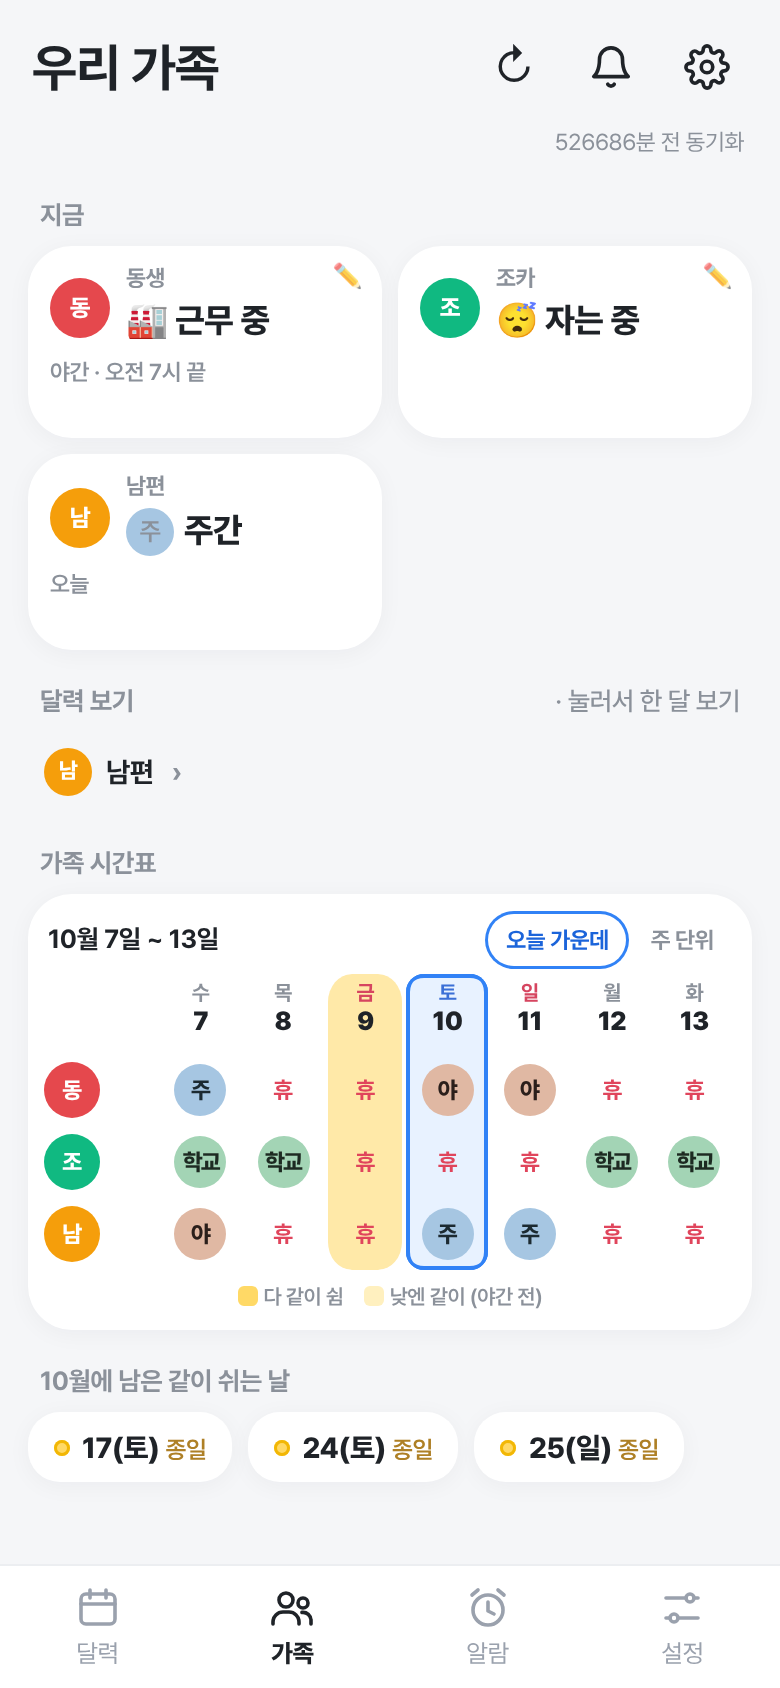
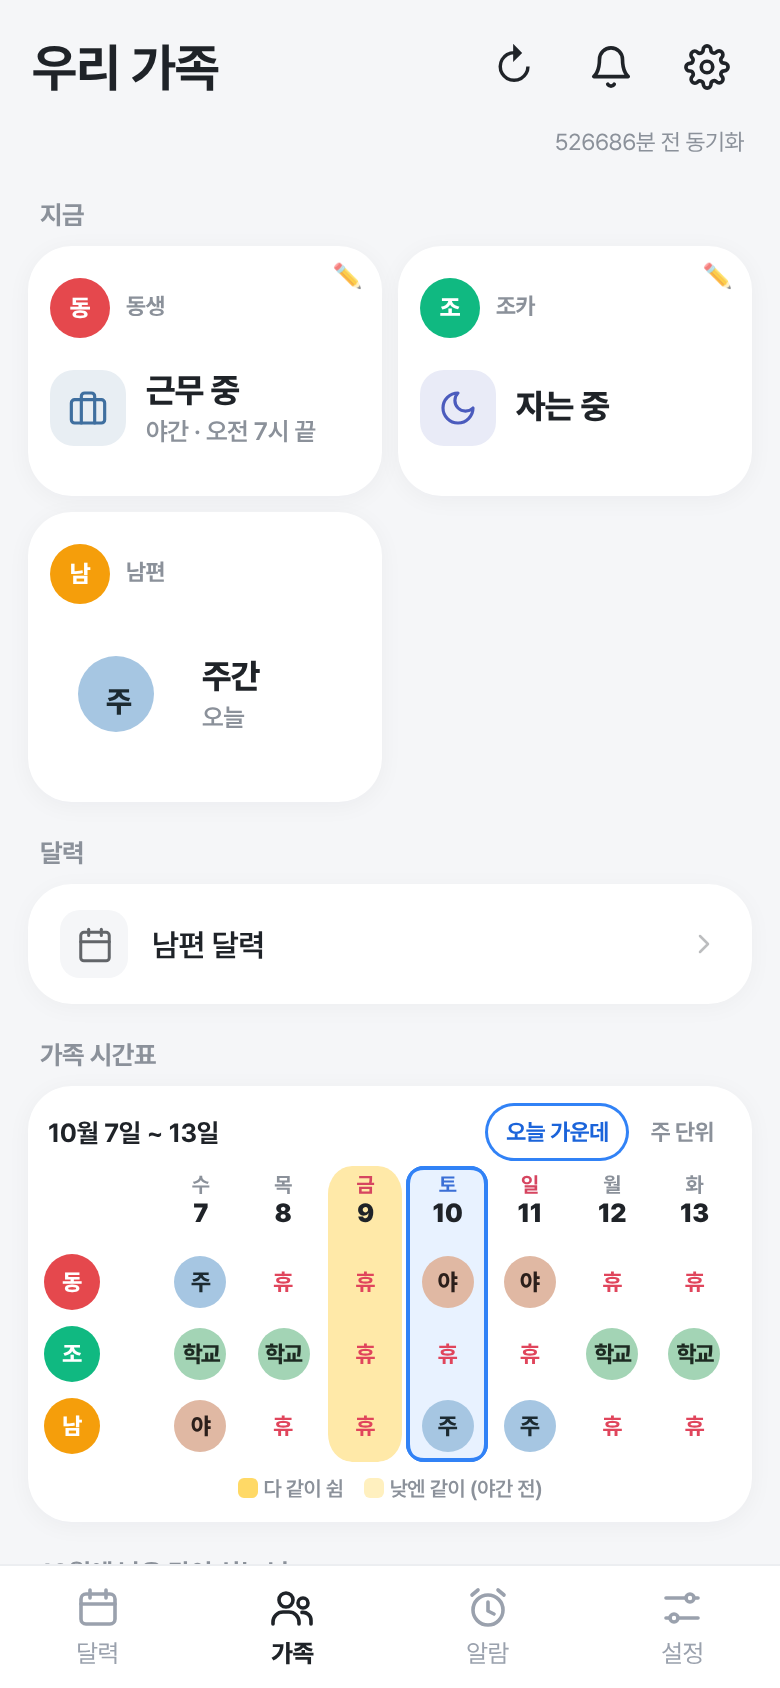
v0.169: 가족 탭 지금 카드 새 모양 · 달력 줄
- 이모지 대신 선 아이콘 칸 · 상태 크게 · 다음 일 한 줄
- 달력 보기 칩 → "남편 달력 ›" 카드 줄
- 시험 s83

Claude-Session: https://claude.ai/code/session_01JTBnEvptp151JygSjZNCTX

diff --git a/app/src/main/assets/index.html b/app/src/main/assets/index.html
@@ -1966,6 +1966,17 @@ html[data-theme="dark"] .tglow .g-hb{stroke:#fff;opacity:.07}
 .vrbody .vcm .vcmt{color:var(--muted)}
 .vrbody .vcmemo-bar{display:flex;gap:8px;margin-top:8px}.vrbody .vcmemo-bar input{flex:1;height:48px;border:0;border-radius:14px;background:var(--surface);padding:0 14px;font-size:15.5px;box-shadow:none}
 .vrbody .vcmemo-bar .send{flex:none;width:46px!important;height:46px!important;border-radius:13px!important;background:var(--fam)!important;color:#fff!important;display:grid;place-items:center}
+/* v0.169 가족 "지금" 카드 새 모양 · 달력 줄 (시안 design/viewfam) */
+.nc.fc2 .st2{display:flex;align-items:center;gap:10px;margin-top:10px}
+.nc.fc2 .sic{width:38px;height:38px;border-radius:12px;flex:none;display:grid;place-items:center;color:var(--c);background:color-mix(in srgb,var(--c) 12%,var(--bg))}
+.nc.fc2 .sic.sbd{border-radius:50%;font-weight:800;font-size:15px}
+.nc.fc2 .stt{min-width:0}.nc.fc2 .stt b{display:block;font-size:17px;font-weight:800;line-height:1.25;letter-spacing:-.3px;white-space:nowrap;overflow:hidden;text-overflow:ellipsis}
+.nc.fc2 .stt span{display:block;font-size:12.5px;font-weight:600;color:var(--muted);margin-top:1px;white-space:nowrap;overflow:hidden;text-overflow:ellipsis}
+.now.fams>.nc.fc2:only-child{grid-column:1/-1}.now.one>.nc.fc2:only-child .sic{width:44px;height:44px}.now.one>.nc.fc2:only-child .stt b{font-size:20px}
+.vcrows{background:var(--bg);border-radius:22px;margin:0 0 4px;box-shadow:0 2px 12px rgba(15,23,42,.035);overflow:hidden}
+.vcr{display:flex;align-items:center;gap:12px;width:100%;padding:13px 16px;text-align:left}.vcr+.vcr{border-top:1px solid var(--line)}
+.vcr .vci{width:34px;height:34px;border-radius:10px;background:var(--surface);display:grid;place-items:center;color:color-mix(in srgb,var(--fg) 70%,var(--bg))}
+.vcr b{flex:1;font-size:15.5px;font-weight:600}.vcr em{font-style:normal;color:color-mix(in srgb,var(--fg) 30%,var(--bg));display:flex}
 /* v0.148 빛이 도는 동안: 원래 테두리는 숨기고 빛을 따라 그려지는 선(g-draw)으로 · 끝나면 다시 테두리 */
 .cell.today.glowing::after{opacity:0}
 .tglow .g-draw{stroke-width:3px;opacity:1;stroke:var(--tdc,var(--today))}
@@ -5146,6 +5157,7 @@ const npRow=(icon,name,right,o={})=>`<div class="prow${o.tap?" tap":""}${o.cls?"
 Object.assign(NPI,{   // v0.158 남은 화면
   'briefcase':'<rect x="2" y="7" width="20" height="14" rx="2"/><path d="M16 21V5a2 2 0 0 0-2-2h-4a2 2 0 0 0-2 2v16"/>',
   'book-open':'<path d="M2 4h6a4 4 0 0 1 4 4v13a3 3 0 0 0-3-3H2zM22 4h-6a4 4 0 0 0-4 4v13a3 3 0 0 1 3-3h7z"/>',
+  'moon':'<path d="M12 3a6 6 0 0 0 9 9 9 9 0 1 1-9-9Z"/>',
   'flag':'<path d="M4 22V4a1 1 0 0 1 .4-.8A6 6 0 0 1 8 2c3 0 5 2 8 2a6 6 0 0 0 3.6-1.2.5.5 0 0 1 .4.4v11a1 1 0 0 1-.4.8A6 6 0 0 1 16 16c-3 0-5-2-8-2a8 8 0 0 0-4 1"/>',
   'calendar-x':'<rect x="3" y="4" width="18" height="18" rx="2"/><path d="M16 2v4M8 2v4M3 10h18M10 14l4 4M14 14l-4 4"/>',
   'download':'<path d="M21 15v4a2 2 0 0 1-2 2H5a2 2 0 0 1-2-2v-4M7 10l5 5 5-5M12 15V3"/>',
@@ -5540,6 +5552,19 @@ function memberStatus(m,now){
   if(h>=s&&h<e)return [st?'🏫':'💼',ty.name||famLbl(m),`${t12(tt.e,true)} ${st?'하원':'퇴근'}`];
   return ['🏠','집',h<s?`${tt.s} ${ty.name||''} ${st?'등원':'출근'}`.replace(/\s+/g,' '):''];
 }
+// v0.169 가족 "지금" 카드: 이모지 대신 선 아이콘 칸 + 상태 크게 + 아래 다음 일 (시안 design/viewfam)
+function famStRow(m,e,l,sub,now){
+  const L=String(l||''),E=String(e||'');
+  let ic='clock',c='#6b7684',bdg='';
+  if(E==='🔁'&&m.kind==='sched'){const sh=schShift(m.sch,new Date(now)),ty=schType(m.sch,sh),tc=ty&&!ty.rest?tColors(ty):null;bdg=tc?`<span class="sic sbd" style="background:${tc.bg};color:${tc.fg}">${esc(String(sh).slice(0,2))}</span>`:'';if(!bdg){ic='home';c='#1fa971';}}
+  else if(/😴|자는/.test(E+L)){ic='moon';c='#4b5bbd';}
+  else if(/🏭|💼|근무 중/.test(E+L)){ic='briefcase';c='#3f6f9f';if(m.kind==='sched'){const ty=schType(m.sch,schShift(m.sch,new Date(now)));if(ty&&!ty.rest&&ty.color)c=deepHex(cssHex(tColors(ty).bg)||c);}}
+  else if(/🏫|학교|유치원|등원|하원/.test(E+L)){ic='book-open';c='#f08a00';}
+  else if(/🚗|출근 중|퇴근 중/.test(E+L)){ic='map-pin';c='#3182f6';}
+  else if(/🙂|🏖|🏠|쉬는|휴|집|방학/.test(E+L)){ic='home';c='#1fa971';}
+  return `<div class="st2">${bdg?bdg:`<span class="sic" style="--c:${c}">${npi(ic,20)}</span>`}<div class="stt"><b>${esc(L)}</b>${sub?`<span>${esc(sub)}</span>`:''}</div></div>`;
+}
+const deepHex=h=>{try{const n=parseInt(String(h).slice(1),16);const f=x=>Math.round(x*.62).toString(16).padStart(2,'0');return '#'+f(n>>16&255)+f(n>>8&255)+f(n&255);}catch(e){return '#3f6f9f';}};
 function cheerList(){return (Array.isArray(S.famCheer)&&S.famCheer.length?S.famCheer:CHEER_DEF);}
 // 가족 동그라미: 사진이 있으면 사진, 없으면 첫 글자 + 색
 function famAv(m,i){const src=isPhoto(m.photo)&&(S.icons||{})[m.photo.slice(1)];return `<i style="background:${m.color||FAM_COL[i%6]}">${src?`<img src="${src}" alt="">`:esc((m.name||'?').slice(0,1))}</i>`;}
@@ -5566,7 +5591,7 @@ function renderFamily(){
   // v0.121 가족이 있으면 나 · 가족 카드 모두 같은 크기 · 같은 모양: 상태 · 막대 · 작은 날씨 줄 · (비 · 미세먼지면) 결론 한 줄
   const pbar=v=>v!==undefined&&v!==null?`<div class="bar"><i style="width:${Math.round(v*100)}%"></i></div>`:'<div class="bar" style="visibility:hidden"></div>';   // v0.124 막대가 없어도 자리는 남김 → 카드끼리 날씨 칸 높이가 맞음
   const meCard2=`<div class="nc w fc2" ${isHost?'data-act="fam-mycal"':''}><div class="ctop"><i style="background:#1d2330">${isHost?'나':'근'}</i><div class="cst">${isHost?'':'<small>근무자</small>'}<div class="st">${st.e?ico(st.e)+' ':''}${esc(st.t)}</div></div></div><div class="sm">${esc(st.sub||st.left||'')||'&nbsp;'}</div>${pbar(st.prog)}${myWx?wxMiniHtml(myWxM,'data-act="wx-fam" data-u="me"'):''}</div>`;
-  const memCards=fam.map((m,i)=>{const [e,l,sub]=memberStatus(m,now);const fw=(wxOn()||(m.kind==='sched'&&famSchedHome(m)))?famNowWx(m,now):null;return `<div class="nc fc2 ${l==='자는 중'?'slp':''}" ${m.kind==='sched'?`data-act="fam-viewcal" data-u="${esc(m.uid)}"`:`data-act="fam-mancal" data-id="${m.id}" data-hold="fam"`}>${m.kind==='sched'?'':`<span class="mced" data-act="fam-edit" data-id="${m.id}" aria-label="고치기">✏</span>`}<div class="ctop">${famAv(m,i)}<div class="cst"><small>${esc(m.name)}</small><div class="st">${e==='🔁'&&m.kind==='sched'?schBadge(m.sch,schShift(m.sch,new Date(now)),'sm')+' ':e?ico(e)+' ':''}${esc(l)}</div></div></div><div class="sm">${esc(sub)||'&nbsp;'}</div>${pbar(famProg(m,now))}${fw?wxMiniHtml(fw,`data-act="wx-fam" data-u="${esc(wxMemKey(m))}"`):false?'<div class="mwx mwx-off" data-act="wx-set">☔ 날씨도 보기 · 집 지역 고르기 ›</div>':''}</div>`;}).join('');
+  const memCards=fam.map((m,i)=>{const [e,l,sub]=memberStatus(m,now);const fw=(wxOn()||(m.kind==='sched'&&famSchedHome(m)))?famNowWx(m,now):null;return `<div class="nc fc2 ${l==='자는 중'?'slp':''}" ${m.kind==='sched'?`data-act="fam-viewcal" data-u="${esc(m.uid)}"`:`data-act="fam-mancal" data-id="${m.id}" data-hold="fam"`}>${m.kind==='sched'?'':`<span class="mced" data-act="fam-edit" data-id="${m.id}" aria-label="고치기">✏</span>`}<div class="ctop">${famAv(m,i)}<div class="cst"><small>${esc(m.name)}</small></div></div>${famStRow(m,e,l,sub,now)}${pbar(famProg(m,now))}${fw?wxMiniHtml(fw,`data-act="wx-fam" data-u="${esc(wxMemKey(m))}"`):false?'<div class="mwx mwx-off" data-act="wx-set">☔ 날씨도 보기 · 집 지역 고르기 ›</div>':''}</div>`;}).join('');
   const cheerBtns='';   // v0.106: 응원 버튼 없앰
   // 이번 주 시간표
   // 가족 시간표: 오늘 가운데(앞뒤 30일) 또는 주 단위(앞뒤 4주) · 옆으로 쓸어서 넘김 · 오늘 열은 위에서 아래까지 하나의 네모 박스
@@ -5595,7 +5620,7 @@ function renderFamily(){
     <div class="fsec">지금</div>
     ${isHost&&fam.length?`<div class="nowwrap"><div class="now fams">${famView()?'':meCard2}${memCards}</div></div>`:`<div class="now one">${famView()?'':meCard}${isHost?memCards:''}</div>`}
     ${cheerBtns}
-    ${famPeers().length?`<div class="fsec">달력 보기 <span class="vsub">· 눌러서 한 달 보기</span></div><div class="vcrow">${famPeers().map(m=>`<button class="vchip" data-act="fam-viewcal" data-u="${esc(m.uid)}">${famAv(m,0)}${esc(m.name)}<em>›</em></button>`).join('')}</div>`:''}
+    ${famPeers().length?`<div class="fsec">달력</div><div class="vcrows">${famPeers().map(m=>`<button class="vcr" data-act="fam-viewcal" data-u="${esc(m.uid)}"><span class="vci">${npi('calendar',19)}</span><b>${esc(m.name)} 달력</b><em>${npi('chevron-right',16)}</em></button>`).join('')}</div>`:''}
     <div class="fsec">가족 시간표</div>
     <div class="ftt">
       <div class="fwk"><span id="fwkT" class="fwt"></span><span class="fmode"><button class="${wkMode==='c'?'on':''}" data-act="fam-mode" data-v="c">오늘 가운데</button><button class="${wkMode==='w'?'on':''}" data-act="fam-mode" data-v="w">주 단위</button></span></div>

diff --git a/tests/phone/s83.js b/tests/phone/s83.js
@@ -17,7 +17,7 @@ const KST=(y,mo,d,h,mi=0)=>Date.UTC(y,mo-1,d,h-9,mi);const p2=n=>String(n).padSt
   const tap=(p,sel)=>p.evaluate(sel=>{document.dispatchEvent(new PointerEvent('pointerup',{bubbles:true}));const o=document.querySelector(sel);o.dispatchEvent(new PointerEvent('pointerdown',{bubbles:true}));o.dispatchEvent(new PointerEvent('pointerup',{bubbles:true}));o.click();},sel);
   { const p=await boot(b,state(true),{tz:'Asia/Seoul',T:KST(2026,10,14,10),cfg,routes,touch:true,fold:true});await p.waitForTimeout(2500);
     await p.click('#nav [data-tab="fam"]');await p.waitForTimeout(500);
-    const c=await p.evaluate(()=>{const e=[...document.querySelectorAll('.now.fams .fc2')].find(x=>/아빠/.test(x.innerText));return e?{t:e.innerText.replace(/\s+/g,' '),wx:!!e.querySelector('.mwx:not(.mwx-off)'),badge:!!e.querySelector('.st .badge')}:null;});
+    const c=await p.evaluate(()=>{const e=[...document.querySelectorAll('.now.fams .fc2')].find(x=>/아빠/.test(x.innerText));return e?{t:e.innerText.replace(/\s+/g,' '),wx:!!e.querySelector('.mwx:not(.mwx-off)'),badge:!!e.querySelector('.st2 .sic.sbd')}:null;});
     T('근무 시간을 모를 때도 🔁 대신 근무 동그라미(야)',!!c&&c.badge&&!/🔁/.test(c.t),JSON.stringify(c));
     T('가족 탭: 아빠 카드에 작은 날씨 줄 (출근 · 퇴근) · 결론 "퇴근길에 비"',!!c&&c.wx&&/출근/.test(c.t)&&/퇴근/.test(c.t)&&/비/.test(c.t),JSON.stringify(c));
     await p.click('#nav [data-tab="cal"]');await p.waitForTimeout(600);

diff --git a/design/viewfam/shots.js b/design/viewfam/shots.js
@@ -7,6 +7,6 @@ const {chromium,boot}=require('../../tests/phone/lib.js');const {rich}=require('
  s.fam2.scheds={dad:mk({})};s.fam2.memos={};s.fam2.reqIn={};s.fam2.reqOut={};s.fam2.reqCc={};s.requests=[];s.events=[];
  for(const [n,T] of [['rest',Date.UTC(2026,9,12,3)],['work',Date.UTC(2026,9,10,3)]]){
  const p=await boot(b,s,{w:390,h:844,T});await p.waitForTimeout(800);
- await p.evaluate(()=>{const x=document.querySelector('[data-act="stkshare-no"]');x&&x.click();});await p.waitForTimeout(300);
+ await p.waitForTimeout(900);await p.evaluate(()=>{const x=document.querySelector('[data-act="stkshare-no"]');x&&x.click();});await p.waitForTimeout(400);
  await p.click('#nav [data-tab="fam"]');await p.waitForTimeout(800);await p.screenshot({path:__dirname+'/now_'+n+'.png'});await p.close();}
  await b.close();})();

diff --git a/docs/HANDOFF.md b/docs/HANDOFF.md
@@ -486,3 +486,9 @@
 - vcDayHtml: .dsbody.vrbody(회색 바탕) · sh-hd "근무"/"근무 바꿔 달라고 하기" + 오른쪽 sh-pill(· 요청하기 / · 요청 중) · 펼침 카드 .vrcard: 근무 칩 → .vrask "휴무 → 주간으로 바꿔 달라고 할게요" → #rqm2 → paint-btn 여러 날 고르기 → .vrsend 요청 보내기(N건 남음).
 - 요청 중이면(open) 바로 펼침 · 상태 카드 .vrst (아이콘 · "주간으로 요청했어요" · 답 기다리는 중/수락/거절/적용/취소 · 답장 · pending 이면 취소 = rqcancel).
 - 가족 메모 = memsec 흰 카드 · 제목 회색 · 빈 글 뺌 · 입력 줄 새 모양. "보기만" · 📩 뺌. 시험 s83 고침.
+
+## v0.169 (덧붙임) 가족 탭 "지금" 카드 새 모양 · 달력 줄 (시안 design/viewfam/v1)
+- famStRow(m,e,l,sub,now): 이모지 대신 선 아이콘 칸 .sic(근무 중 = 근무 색 · 쉬는/집 = 초록 · 자는 = 남색 moon · 학교 = 주황 · 이동 = 파랑) 또는 근무 글자 동그라미(.sic.sbd · 시간 모르는 근무자) + 상태 크게(.stt b) + 다음 일(.stt span). 막대 · 날씨 칸은 그대로. NPI 에 moon 추가.
+- "달력 보기 · 눌러서 한 달 보기" 칩 → "달력" 카드 줄(.vcrows .vcr · "남편 달력 ›").
+- 날씨: 보기만 가족도 근무자가 올린 동네(sch.wx)로 이미 가져옴 (wxCodes → wxFamCodes) — 바뀐 것 없음.
+- 시험 s83 고침.

diff --git a/docs/TODO.md b/docs/TODO.md
@@ -2676,7 +2676,7 @@
 - 요청 중: 상태 카드 하나(주간으로 요청했어요 · 답 기다리는 중 · 취소)
 - 가족 메모 = 보라 카드 · "보기만" · 📩 · 설명 글 빼기
 
-## 아내 폰(보기만 · 가족 근무표만 보는 사람) 다듬기 (시안 design/viewfam/v1 · "만들어" 대기)
+## ✅ v0.169 아내 폰(보기만 · 가족 근무표만 보는 사람) 다듬기 (날씨는 이미 근무자 동네로 가져옴)
 - 아내 폰이 옛 버전(방금 동기화됨 · + 가족 추가가 보임) → 최신 설치부터
 - 날씨: 아내가 날씨를 안 켜도, 남편이 올린 집 · 직장 동네로 남편 날짜 창 · 가족 탭에 날씨가 보이게 (지금은 아내 폰 날씨가 켜져 있어야 가져옴)
 - 가족 탭 "지금" 카드: 🙂 쉬는 중 이모지 카드가 밋밋 → 새 모양(선 아이콘 · 상태 · 다음 근무 · 진행 막대) 시안
